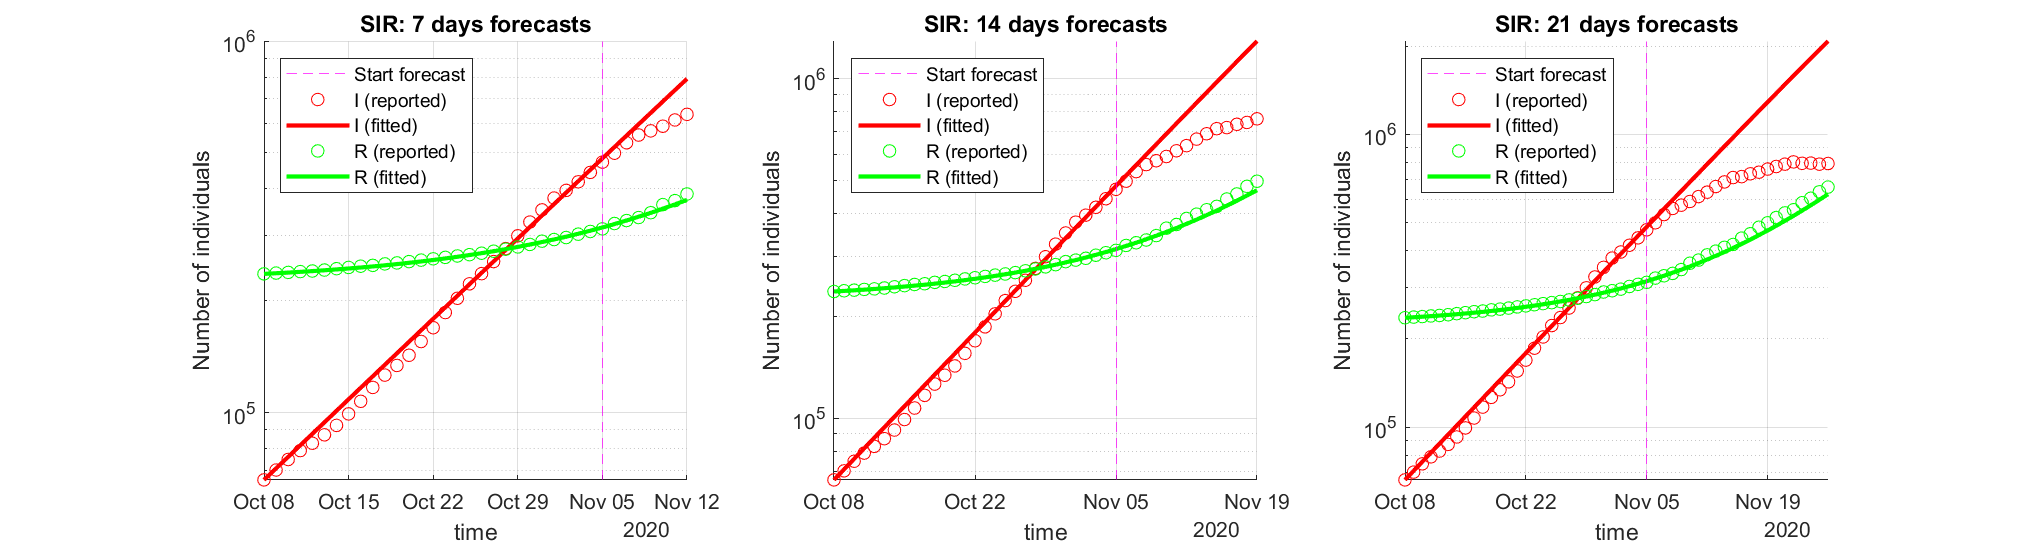
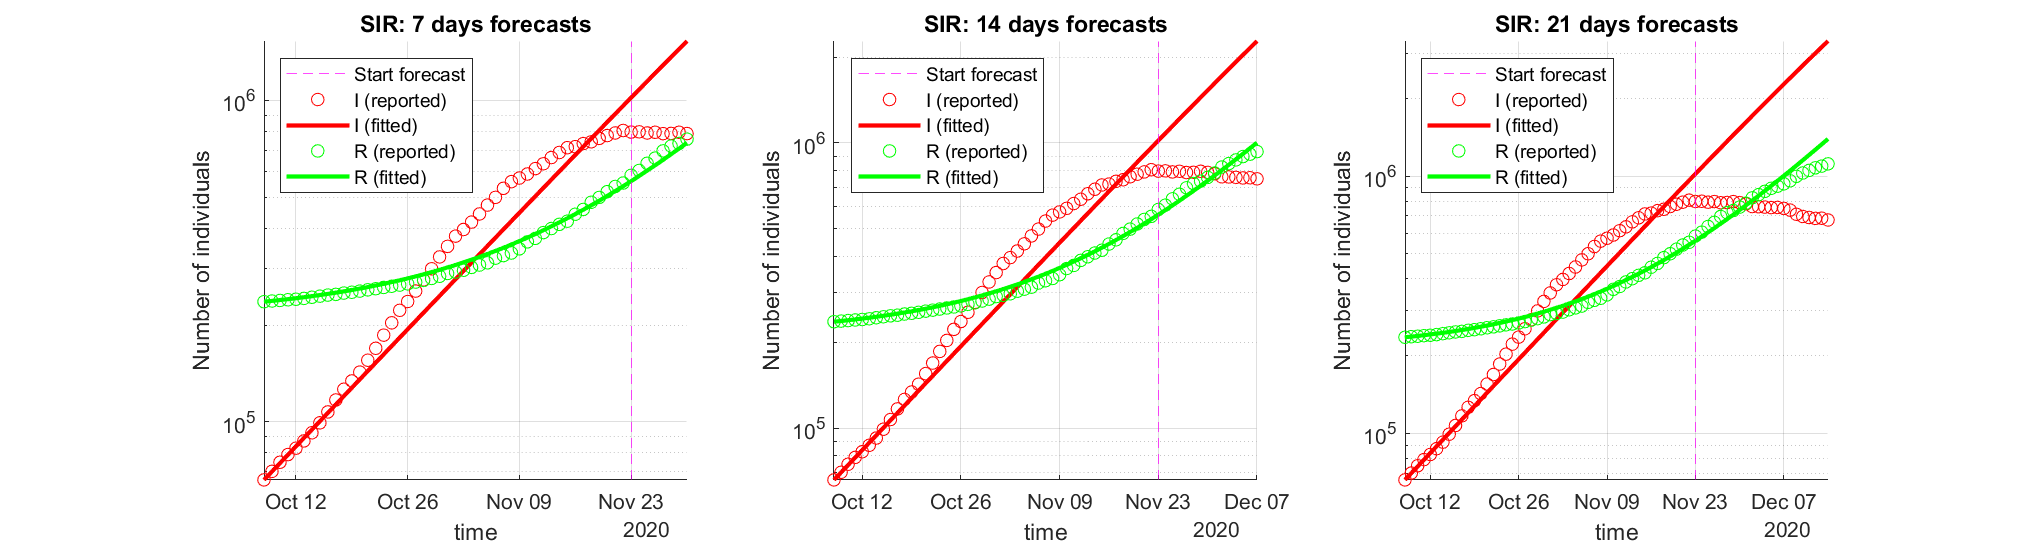
Update simulations and plots

diff --git a/models/SEIIRHD/forecast_SEIIRHD.m b/models/SEIIRHD/forecast_SEIIRHD.m
@@ -1,0 +1,58 @@
+function forecast_SEIIRHD(timeV, X1, path)
+
+% Input 
+% timeV   time vector used as x-axis
+% X1      vector containg the ODE solution 
+% path    path for saving the plot obtained
+
+% Output
+%         Void function
+
+I_a1 = X1(:, 3);
+I_s1 = X1(:, 4);
+H1 = X1(:, 5);
+D1 = X1(:, 7);
+
+[maxI_a1, maxdayIa1] = max(I_a1);
+[maxI_s1, maxdayIs1] = max(I_s1);
+[minI_a1, mindayIa1] = min(I_a1);
+[minI_s1, mindayIs1] = min(I_s1);
+
+fprintf("Max I_a: %f, day: %d \n",maxI_a1, maxdayIa1); 
+fprintf("Max I_s: %f, day: %d \n", maxI_s1, maxdayIs1); 
+fprintf("Min I_a: %f, day: %d \n",minI_a1, mindayIa1); 
+fprintf("Min I_s: %f, day: %d \n", minI_s1, mindayIs1);
+fprintf("----\n")
+
+
+x0=100;
+y0=100;
+width=600;
+height=700;
+set(gcf,'position',[x0,y0,width,height]);
+
+% I_a PLOT
+subplot(2,1,1);
+plot(timeV,I_a1,'r-', 'Linewidth', 1.5);hold on
+plot(timeV,I_s1,'Color', '#D95319', 'Linewidth', 1.5);
+xlabel('Days');ylabel('Number of individuals');
+legend('I_a (forecast)', 'I_s (forecast)', ...
+    'Location', 'northeast');
+set(gca,'XLim',[timeV(1), timeV(501)]);
+title(sprintf('SEIIRHD model forecast'));
+
+% H PLOT
+subplot(2,1,2);
+plot(timeV,H1,'c-', 'Linewidth', 1.5);hold on
+plot(timeV,D1,'k-', 'Linewidth', 1.5);
+xlabel('Days');ylabel('Number of individuals');
+legend('H (forecast)','D (forecast)',...
+    'Location', 'northeast');
+set(gca,'XLim',[timeV(1), timeV(501)]);
+title(sprintf('SEIIRHD model forecast'));
+
+saveas(gcf,path)
+
+
+
+

diff --git a/experiments/simulations/ITAMarchForecast.m b/experiments/simulations/ITAMarchForecast.m
@@ -1,0 +1,48 @@
+%% 
+clc
+clear all
+close all
+% GET DATA FROM SCRIPT
+% add folders to path
+addpath('./data/');
+addpath('./models/');
+addpath('./results/march/ITA');
+addpath('./models/SEIIRHD');
+
+%retrieve the data structs
+[data, dates] = getData;
+t1 = datetime(2020,02,24,0,0,0);
+t2 = datetime(2022,12,31,0,0,0);
+dates = t1:t2;
+N = 60.*10^6;
+%% SEIIRHD MODEL PARAMETERS
+
+I = cast((data.totale_positivi), 'double');
+E = 0.3*(I);
+R = cast(data.dimessi_guariti, 'double');
+H = cast(data.totale_ospedalizzati, 'double');
+D = cast(data.deceduti, 'double');
+
+t0 = find(dates=="21-Feb-2021"); 
+E0 = E(t0);
+I0 = I(t0);
+H0 = H(t0);
+R0 = R(t0);
+D0 = D(t0);
+S0 = N-E0-I0-R0;
+
+timeV = t0:1:t0+500;
+%%
+p = [0.5164, 0.0884, 0.0351, ...
+    0.0217, 0.0253, 0.0039, 0.0022];
+f=p(1);
+I_a = (1-f)*I;
+I_s = f*I;
+I_a0 = I_a(t0);
+I_s0 = I_s(t0);
+X0= [S0 E0 I_a0 I_s0 H0 R0 D0];
+
+[t,x] = ode23s(@(t,x) SEIIRHD(t,x, p), timeV, X0);  
+%%
+forecast_SEIIRHD(dates(timeV), x,...
+    "./results/simulations/ITA/SEIIRHDMarchForecast.png")

diff --git a/experiments/october/ITALongForecast.m b/experiments/october/ITALongForecast.m
@@ -67,8 +67,8 @@ R0 = eigs(G,1);
 fprintf("R0: %f \n", R0);
 %% PLOT SIR
 close all
-tp = [7,14, 21];
-plot_SIR(X_SIR, X0_ad_SIR, N, p_SIR, dates, t0, tf, tp,"./results/october/ITA/SIR_fitting.png");
+tp = [50,75,120];
+plot_SIR(X_SIR, X0_ad_SIR, N, p_SIR, dates, t0, tf, tp,"./results/october/ITA/SIR_fittinga.png");
 %% FITTING SEIR MODEL
 % [S, E, I, R]
 
@@ -201,6 +201,6 @@ fprintf("R0: %f\n", R0);
 
 %% PLOT SEIIRHD
 close all
-tp = [7,14, 21];
+tp = [30,60,120];
 plot_SEIIRHD(X_SEIIRHD, X0_ad_SEIIRHD, N, p_SEIIRHD, dates, t0, tf, tp,...
-    "./results/october/ITA/SEIIRHD_fitting.png");
+    "./results/simulations/SEIIRHDLimitations.png");
